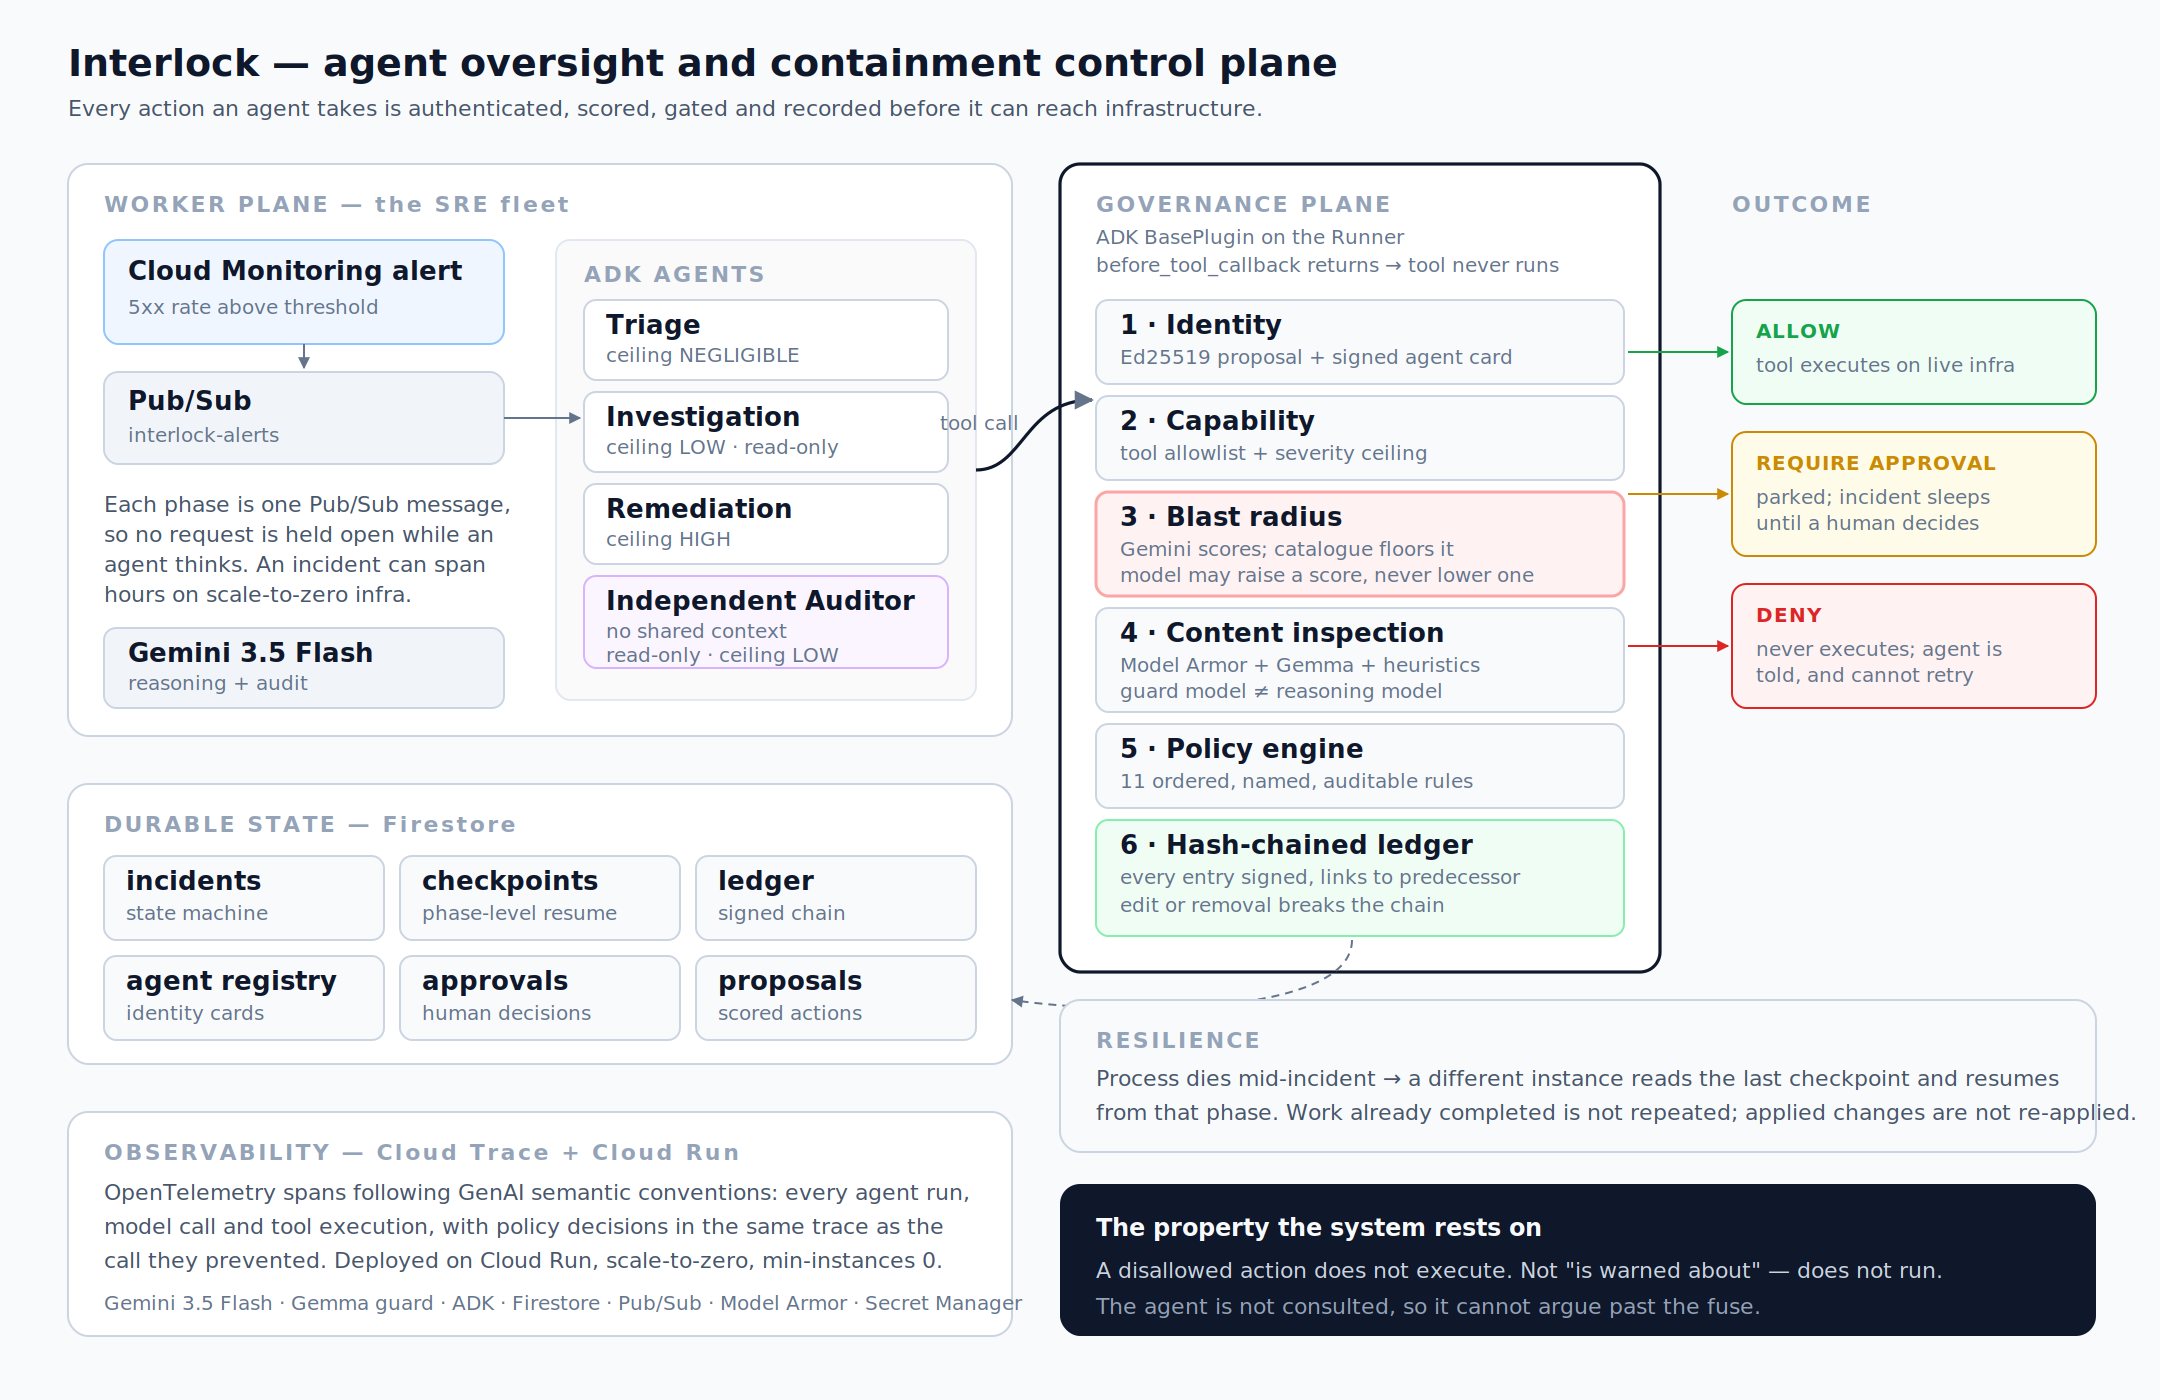
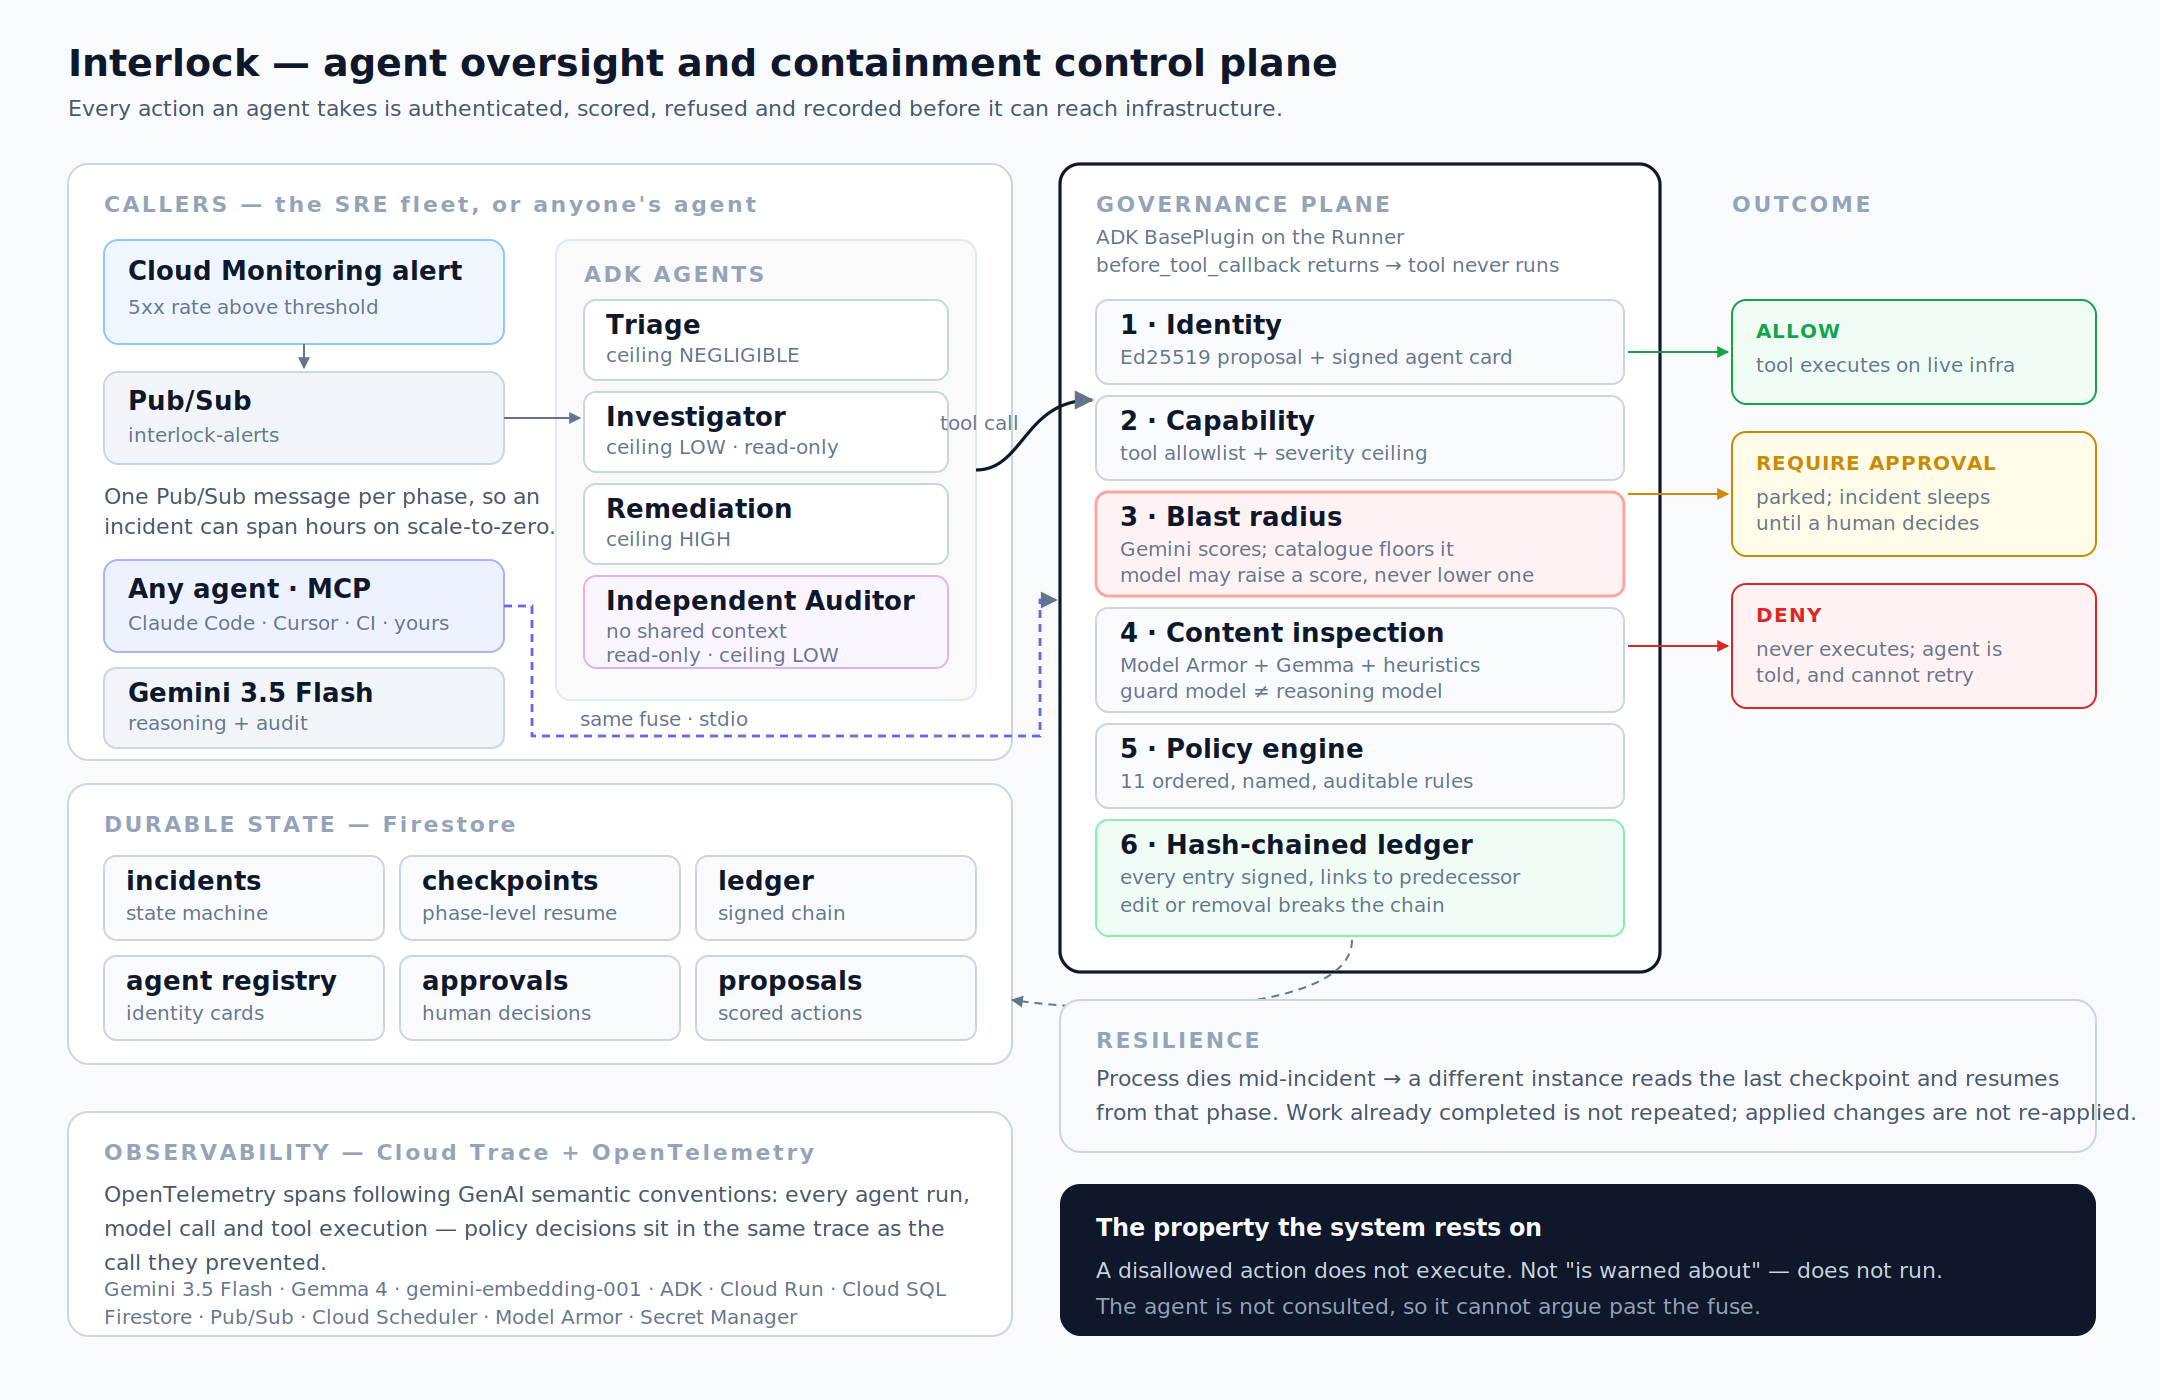
Correct the architecture diagram, and restore the solo framing
The diagram presented the SRE fleet as the whole architecture, which
contradicts the rest of the submission: the fleet is a test harness and
the fuse is the product. The worker plane is now "CALLERS — the SRE fleet,
or anyone's agent", with a second caller box for any MCP client and a
dashed path showing it reaching the same governance plane over stdio,
routed under the agent panel so it crosses nothing.

Three services were missing from the stack line despite being in the
README and on the submission form: Cloud SQL, Cloud Scheduler, and
gemini-embedding-001. Added, wrapped onto two lines because one ran off
the panel and behind the dark box.

Wording: "gated" became "refused", since the metaphor is a fuse and a gate
is the thing it is not. Observability was labelled "Cloud Trace + Cloud
Run", which named the runtime as if it were telemetry. The agent box said
Investigation; the agent is investigator.

Each render was checked by eye rather than assumed. The first attempt
overflowed three text runs past their boxes and the second collided the
stack list with the prose above it; both are fixed, and the SVG is
validated as well-formed before rendering.

Blog post: solo is back in the framing line.

diff --git a/docs/blog-post.md b/docs/blog-post.md
@@ -1,6 +1,6 @@
 # Interlock — a fuse for autonomous agents
 
-*Built for the **Google All Things Agentic Hackathon**. This post was written as part of that submission.*
+*A solo build for the **Google All Things Agentic Hackathon**. This post was written as part of that submission.*
 
 **Try it:** <https://interlock-public-610063873432.us-central1.run.app> · **Install it:** `uvx interlock-mcp`
 
